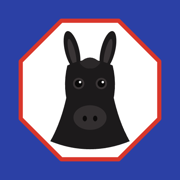
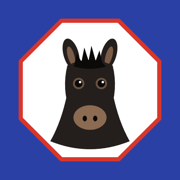
Redraw Tomeo from photo: dark brown, short ears, spiky mane, tan muzzle; stop clipping the arched text

diff --git a/core.js b/core.js
@@ -85,10 +85,10 @@ function start(dial,ui){
 window.T={rad,deg,enable,start,demo:DEMO,
   donkey:c=>`
     ${c.neck?`<path d="M52 130 Q40 190 16 232 Q100 266 184 232 Q160 190 148 130Z" fill="${c.body}"/>`:""}
-    <g class="ear l"><ellipse cx="62" cy="40" rx="15" ry="42" transform="rotate(-14 62 40)" fill="${c.body}"/><ellipse cx="62" cy="44" rx="6.5" ry="29" transform="rotate(-14 62 44)" fill="${c.inner}"/></g>
-    <g class="ear r"><ellipse cx="138" cy="40" rx="15" ry="42" transform="rotate(14 138 40)" fill="${c.body}"/><ellipse cx="138" cy="44" rx="6.5" ry="29" transform="rotate(14 138 44)" fill="${c.inner}"/></g>
+    <g class="ear l"><ellipse cx="60" cy="48" rx="16" ry="34" transform="rotate(-16 60 48)" fill="${c.body}"/><ellipse cx="60" cy="52" rx="7" ry="21" transform="rotate(-16 60 52)" fill="${c.inner}"/></g>
+    <g class="ear r"><ellipse cx="140" cy="48" rx="16" ry="34" transform="rotate(16 140 48)" fill="${c.body}"/><ellipse cx="140" cy="52" rx="7" ry="21" transform="rotate(16 140 52)" fill="${c.inner}"/></g>
     <path d="M52 72 Q100 48 148 72 Q160 122 142 170 Q128 204 100 208 Q72 204 58 170 Q40 122 52 72Z" fill="${c.body}"/>
-    <path d="M78 66 Q100 44 122 66 Q112 80 100 78 Q88 80 78 66Z" fill="${c.mane}"/>
+    <path d="M66 74 L72 46 L82 64 L88 34 L97 62 L103 30 L112 62 L120 40 L126 66 L134 74 Q100 84 66 74Z" fill="${c.mane}"/>
     <ellipse cx="100" cy="182" rx="35" ry="26" fill="${c.muzzle}"/>
     <ellipse cx="89" cy="184" rx="4.5" ry="6" fill="${c.dark}"/><ellipse cx="111" cy="184" rx="4.5" ry="6" fill="${c.dark}"/>
     <circle cx="66" cy="146" r="11" fill="${c.cheek}" opacity=".5"/><circle cx="134" cy="146" r="11" fill="${c.cheek}" opacity=".5"/>

diff --git a/index.html b/index.html
@@ -34,7 +34,7 @@ body{font-family:var(--cond);color:var(--blue);display:flex;justify-content:cent
 .panel::after{inset:12px;border:1.2px solid var(--red)}
 .panel>*{position:relative;z-index:1}
 
-.arc{width:84%;max-width:290px;flex:none;margin-top:-6px}
+.arc{width:84%;max-width:290px;flex:none;margin-top:-6px;overflow:visible}
 .arc text{font:600 19px var(--cond);letter-spacing:3.5px;fill:var(--red);text-anchor:middle}
 
 .dialwrap{position:relative;margin:4px 0;width:clamp(110px,calc(100dvh - 556px - env(safe-area-inset-top) - env(safe-area-inset-bottom)),min(66vw,280px));aspect-ratio:1;flex:none;touch-action:none;cursor:grab}
@@ -125,7 +125,7 @@ for(let i=0;i<72;i++){const big=i%9===0,[a,b]=P(big?120:129,i*5),[c,d]=P(138,i*5
   s+=`<text class="lt ${t=="N"?"n":""}" x="${x}" y="${y}" transform="rotate(${d} ${x} ${y})">${t}</text>`});
 [45,135,225,315].forEach(d=>{const [x,y]=P(100,d);s+=`<path d="M0-6L4 0 0 6-4 0Z" fill="#D9362B" transform="translate(${x} ${y}) rotate(${d})"/>`});
 $("ring").innerHTML=s;
-$("dg").innerHTML=T.donkey({body:"#1C1A1B",inner:"#3A3536",mane:"#2B2829",muzzle:"#332F30",dark:"#0B0A0A",cheek:"none",ring:"#3A3536",neck:true});
+$("dg").innerHTML=T.donkey({body:"#241F1D",inner:"#7A5C47",mane:"#0C0A09",muzzle:"#8B6B52",dark:"#0B0A0A",cheek:"none",ring:"#6B5240",neck:true});
 const cta=$("cta");
 cta.addEventListener("click",async()=>{
   cta.disabled=true;cta.textContent="STARTING...";
